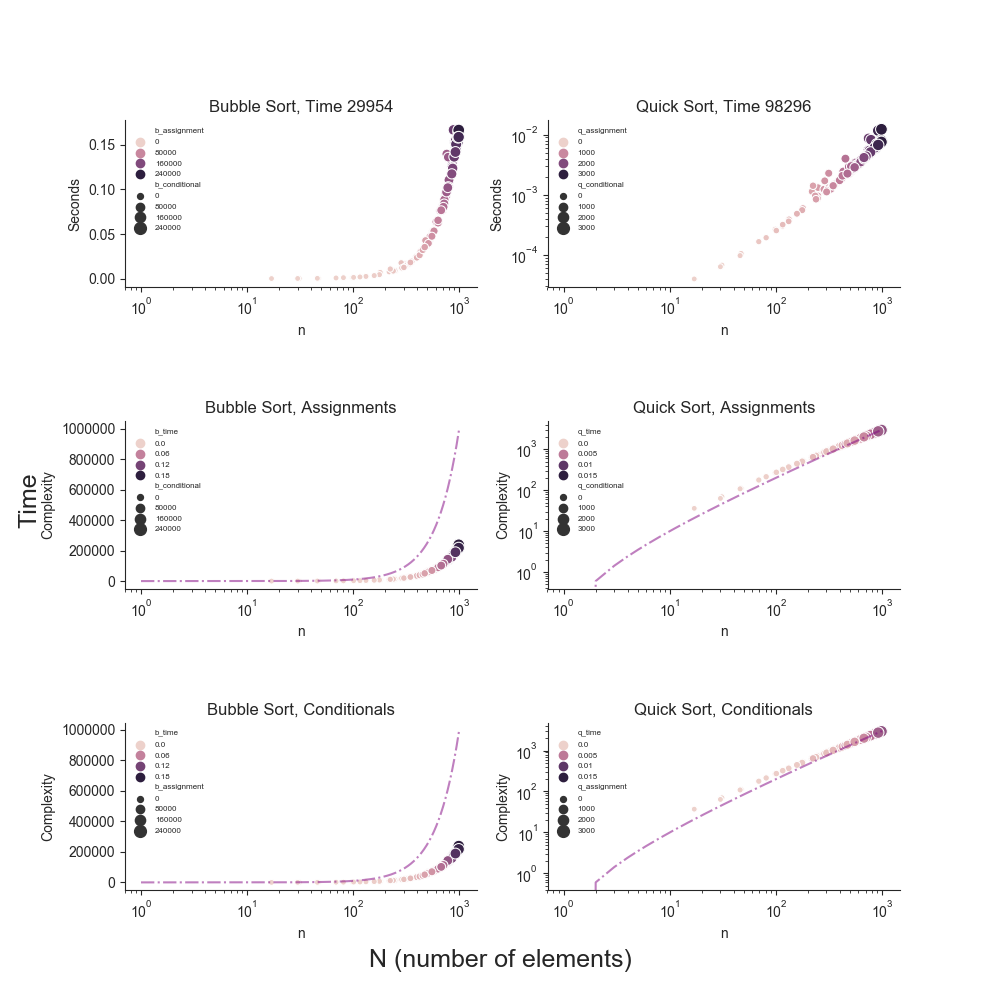
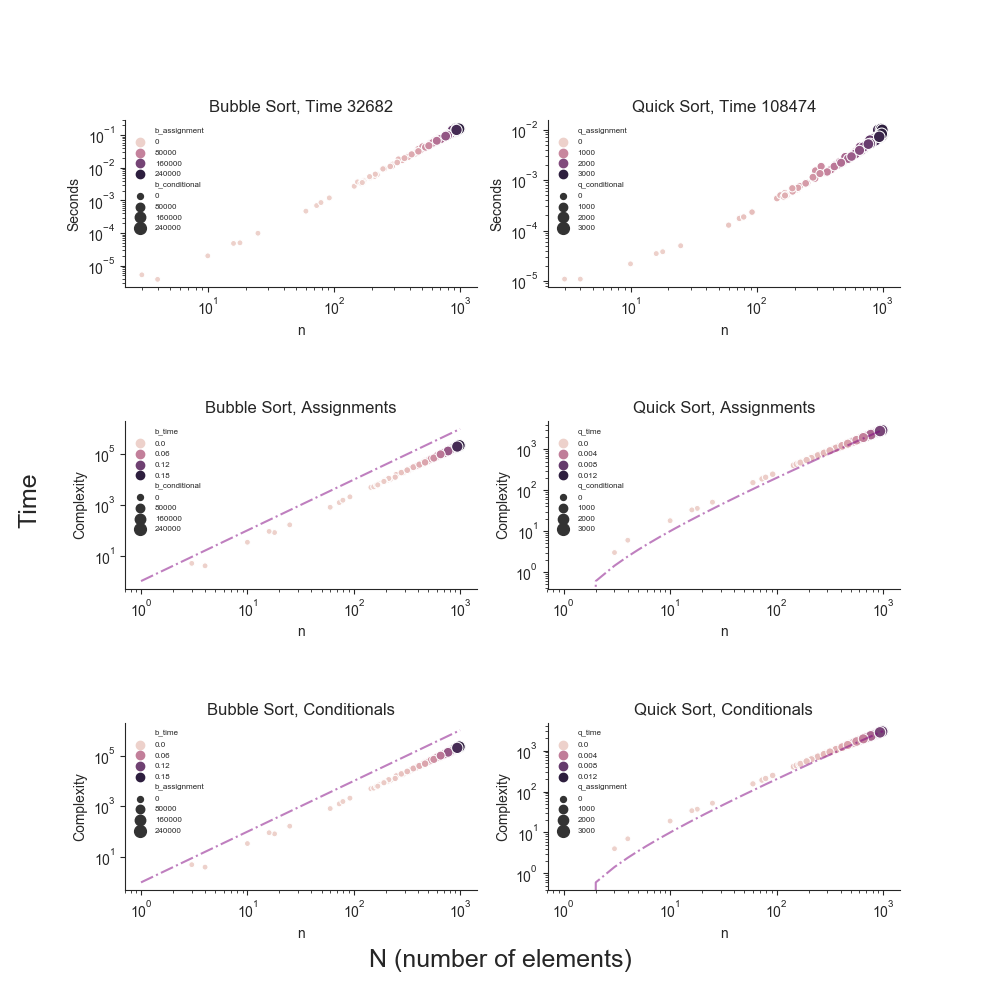
put bubble sort in log space

diff --git a/sort/sort_runs.py b/sort/sort_runs.py
@@ -67,14 +67,17 @@ def run_graphing(total,max,element):
     fig.text(0.5, 0.04, 'N (number of elements)', ha='center', va='center', fontsize=18)
     fig.text(0.03, 0.5, 'Time', ha='center', va='center', rotation='vertical', fontsize=18)
     ax0 = plt.subplot(gs[0,0])
-    ax1 = plt.subplot(gs[0,1],sharex=ax0)
-    ax2 = plt.subplot(gs[2,0],sharex=ax0)
-    ax3 = plt.subplot(gs[1,0],sharex=ax0)
+    ax1 = plt.subplot(gs[0,1])#,sharex=ax0
+    ax2 = plt.subplot(gs[2,0])#,sharex=ax0
+    ax3 = plt.subplot(gs[1,0])#,sharex=ax0
     ax4 = plt.subplot(gs[2,1])
-    ax5 = plt.subplot(gs[1,1],sharex=ax4)
+    ax5 = plt.subplot(gs[1,1])#,sharex=ax4
     ax0.ticklabel_format(style='sci')
 
+    ax0.set(xscale="log", yscale="log")
     ax1.set(xscale="log", yscale="log")
+    ax2.set(xscale="log", yscale="log")
+    ax3.set(xscale="log", yscale="log")
     ax4.set(xscale="log", yscale="log")
     ax5.set(xscale="log", yscale="log")
 
